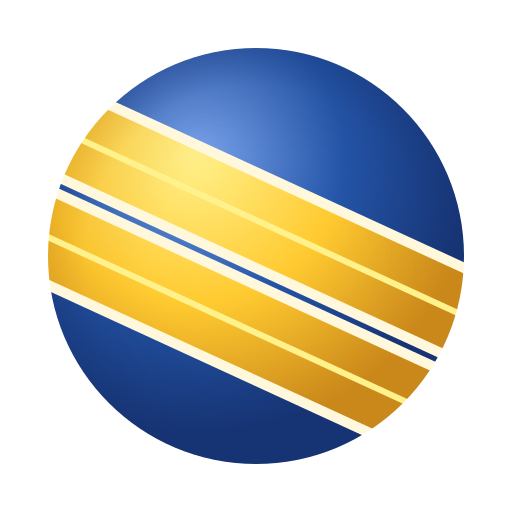
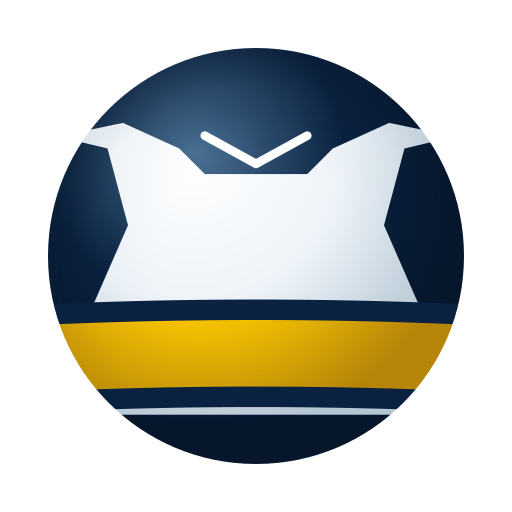
Give HV71 a white navy and yellow hockey kit in both styles

diff --git a/snake-style-config.js b/snake-style-config.js
@@ -1,2 +1,2 @@
 // Generated from the approved template specs. Run tools/export-snake-styles.cjs.
-(function(root){const config={"skins":["klassisk","jordgubbe","basketboll","isbla","rosa","lila","smaragd","regnbage","guld","polkagris","galax","vattenmelon","fotboll","miamisunset","inferno","aurora","hav","lava","obsidian","blackpink","skog","radioaktiv","plasma","clockwork","runorm","prismagodis","skuggmysterium","tidvatten","museumvaktaren","stjarnarkiv","solregent","stjarnhimmel","ghost","kunglig","hv71"],"rendering":{"minimumOpacity":0.75,"fadePerSegment":0.0125,"toyOutlineWidth":0.025,"toyOutlineOpacity":0.62,"toyShadowBlur":0.16,"toyShadowOffset":0.14,"shadowOpacity":0.48,"pixelShadowBlur":0.7,"pixelShadowOffset":1,"pixelFinalSmoothing":true},"headAttachment":{"center":[0.5,0.5],"radiusX":0.4671875,"radiusY":0.43,"eyes":[[0.3,0.29],[0.7,0.29]],"pixelEyes":[[0.3,0.34],[0.7,0.34]],"rearDecorationAnchors":[[0.17,0.68],[0.83,0.68]],"decorationMinimumY":0.6},"headAccessories":{"kunglig":"crown"},"materialOpacities":{"ghost":0.68},"assetRevisions":{"inferno":2,"radioaktiv":2,"plasma":2},"colorCycles":{"regnbage":{"hues":[0,30,55,115,175,220,275],"intervalMs":1400}},"outlineColors":{"klassisk":"#10361d","jordgubbe":"#390d15","basketboll":"#43240f","isbla":"#103747","rosa":"#47233a","lila":"#302046","smaragd":"#12392e","regnbage":"#431919","guld":"#443214","polkagris":"#672036","galax":"#101828","vattenmelon":"#26352a","fotboll":"#252931","miamisunset":"#26314d","inferno":"#683b12","aurora":"#11192d","hav":"#0d3149","lava":"#17131e","obsidian":"#101020","blackpink":"#190f1c","skog":"#182c24","radioaktiv":"#06190f","plasma":"#080f24","clockwork":"#142022","runorm":"#192624","prismagodis":"#392742","skuggmysterium":"#111622","tidvatten":"#102c37","museumvaktaren":"#111c30","stjarnarkiv":"#101d34","solregent":"#552518","stjarnhimmel":"#11152b","ghost":"#1a526f","kunglig":"#261735","hv71":"#0e1d3b"},"styles":{"toy":{"frame":512,"headScale":1.12,"bodyScale":1.3608,"pivot":[256,64],"chord":188.76501370751944},"pixel":{"frame":32,"headScale":1.03,"bodyScale":1.3608,"pivot":[16,4],"chord":11}}};if(typeof module!=="undefined"&&module.exports)module.exports=config;else root.SnakeStyleConfig=config;})(typeof globalThis!=="undefined"?globalThis:this);
+(function(root){const config={"skins":["klassisk","jordgubbe","basketboll","isbla","rosa","lila","smaragd","regnbage","guld","polkagris","galax","vattenmelon","fotboll","miamisunset","inferno","aurora","hav","lava","obsidian","blackpink","skog","radioaktiv","plasma","clockwork","runorm","prismagodis","skuggmysterium","tidvatten","museumvaktaren","stjarnarkiv","solregent","stjarnhimmel","ghost","kunglig","hv71"],"rendering":{"minimumOpacity":0.75,"fadePerSegment":0.0125,"toyOutlineWidth":0.025,"toyOutlineOpacity":0.62,"toyShadowBlur":0.16,"toyShadowOffset":0.14,"shadowOpacity":0.48,"pixelShadowBlur":0.7,"pixelShadowOffset":1,"pixelFinalSmoothing":true},"headAttachment":{"center":[0.5,0.5],"radiusX":0.4671875,"radiusY":0.43,"eyes":[[0.3,0.29],[0.7,0.29]],"pixelEyes":[[0.3,0.34],[0.7,0.34]],"rearDecorationAnchors":[[0.17,0.68],[0.83,0.68]],"decorationMinimumY":0.6},"headAccessories":{"kunglig":"crown"},"materialOpacities":{"ghost":0.68},"assetRevisions":{"inferno":2,"radioaktiv":2,"plasma":2,"hv71":2},"colorCycles":{"regnbage":{"hues":[0,30,55,115,175,220,275],"intervalMs":1400}},"outlineColors":{"klassisk":"#10361d","jordgubbe":"#390d15","basketboll":"#43240f","isbla":"#103747","rosa":"#47233a","lila":"#302046","smaragd":"#12392e","regnbage":"#431919","guld":"#443214","polkagris":"#672036","galax":"#101828","vattenmelon":"#26352a","fotboll":"#252931","miamisunset":"#26314d","inferno":"#683b12","aurora":"#11192d","hav":"#0d3149","lava":"#17131e","obsidian":"#101020","blackpink":"#190f1c","skog":"#182c24","radioaktiv":"#06190f","plasma":"#080f24","clockwork":"#142022","runorm":"#192624","prismagodis":"#392742","skuggmysterium":"#111622","tidvatten":"#102c37","museumvaktaren":"#111c30","stjarnarkiv":"#101d34","solregent":"#552518","stjarnhimmel":"#11152b","ghost":"#1a526f","kunglig":"#261735","hv71":"#0a2240"},"styles":{"toy":{"frame":512,"headScale":1.12,"bodyScale":1.3608,"pivot":[256,64],"chord":188.76501370751944},"pixel":{"frame":32,"headScale":1.03,"bodyScale":1.3608,"pivot":[16,4],"chord":11}}};if(typeof module!=="undefined"&&module.exports)module.exports=config;else root.SnakeStyleConfig=config;})(typeof globalThis!=="undefined"?globalThis:this);

diff --git a/skin-templates/runtime-preview.html b/skin-templates/runtime-preview.html
@@ -7,7 +7,7 @@
 *{box-sizing:border-box}body{margin:0;padding:24px;background:#f5f0e4;color:#183b35;font:16px system-ui,sans-serif}main{max-width:1160px;margin:auto}h1{margin:0 0 8px;font-size:26px}p{line-height:1.5}button{font:inherit;padding:8px 14px;border:1px solid #789184;border-radius:10px;background:#fffaf0;color:inherit;cursor:pointer}article{margin:22px 0;padding:20px;border:1px solid #cdd6c9;border-radius:18px;background:#fffaf0}h2{margin:0 0 12px;font-size:23px}.styles{display:grid;grid-template-columns:1fr 1fr;gap:22px}h3{margin:0 0 8px;font-size:16px}canvas{display:block;width:100%;height:auto;background:#e4edde;border-radius:12px;image-rendering:auto}.note{margin:12px 0 0;font-size:13px;color:#456057}@media(max-width:650px){body{padding:12px}.styles{grid-template-columns:1fr}article{padding:14px}}
 </style>
 <main><h1>SifferSnoken · riktiga skinpreviews</h1><p>Samma WebP-filer, former, ögon och svansfästen som i spelet. Utan längdnedtoning; Ghost behåller sin genomskinlighet.</p><button id="pause">Pausa färgerna</button><div id="previews"></div><p id="status" role="status">Laddar tillgångar…</p></main>
-<script src="../snake-style-config.js?v=snake-styles-19"></script>
+<script src="../snake-style-config.js?v=snake-styles-20"></script>
 <script src="../snake-colors.js?v=snake-styles-4"></script>
 <script src="../snake-headwear-designs.js?v=headwear-3"></script>
 <script src="../snake-headwear.js?v=headwear-3"></script>

diff --git a/skin-templates/headwear-preview.html b/skin-templates/headwear-preview.html
@@ -6,7 +6,7 @@
 *{box-sizing:border-box}body{margin:0;padding:24px;background:#f5f0e4;color:#183b35;font:16px system-ui,sans-serif}main{max-width:1080px;margin:auto}h1{font-size:26px;margin:0 0 10px}p{line-height:1.5}article{background:#fffaf0;border:1px solid #cdd6c9;border-radius:18px;padding:20px;margin:22px 0}h2{margin:0 0 14px}h3{font-size:16px;margin:0 0 8px}.styles{display:grid;grid-template-columns:1fr 1fr;gap:20px}canvas{display:block;width:100%;height:auto;border-radius:12px}label{display:inline-flex;gap:6px;margin-right:14px}@media(max-width:650px){body{padding:12px}.styles{grid-template-columns:1fr}article{padding:14px}}
 </style>
 <main><h1>Alla 30 huvudbonader · passformsprov</h1><p>Klassisk, Jordgubbe och Ghost, i alla fyra riktningar. Samma renderer och fästpunkter som i spelet. Ögon och huvudstorlekar är oförändrade.</p><label><input type="checkbox" id="blink">Visa blinkning</label><label><input type="checkbox" id="off">Utan bonad</label><div id="previews"></div><p id="status">Laddar…</p></main>
-<script src="../snake-style-config.js?v=snake-styles-19"></script>
+<script src="../snake-style-config.js?v=snake-styles-20"></script>
 <script src="../snake-colors.js?v=snake-styles-4"></script>
 <script src="../snake-headwear-designs.js?v=headwear-3"></script>
 <script src="../snake-headwear.js?v=headwear-3"></script>

diff --git a/skin-templates/headwear-gallery.html b/skin-templates/headwear-gallery.html
@@ -4,7 +4,7 @@
 <main><h1>SifferSnoken · alla 30 huvudbonader</h1><p>Modern och Pixelretro · samma huvud och renderer som i spelet.</p>
 <label>Skin <select id="skin"><option value="klassisk">Klassisk</option><option value="jordgubbe">Jordgubbe</option><option value="ghost">Ghost</option></select></label><label>Riktning <select id="direction"><option value="right">Höger</option><option value="up">Upp</option><option value="down">Ned</option><option value="left">Vänster</option></select></label><label><input type="checkbox" id="blink">Blinkning</label>
 <h2>Modern · mjuka leksaksformer</h2><canvas id="toy" width="1120" height="760"></canvas><h2>Pixelretro</h2><canvas id="pixel" width="1120" height="760"></canvas><p id="status">Laddar…</p></main>
-<script src="../snake-style-config.js?v=snake-styles-19"></script><script src="../snake-colors.js?v=snake-styles-4"></script>
+<script src="../snake-style-config.js?v=snake-styles-20"></script><script src="../snake-colors.js?v=snake-styles-4"></script>
 <script src="../snake-headwear-designs.js?v=headwear-3"></script><script src="../snake-headwear.js?v=headwear-3"></script><script src="../snake-styles.js?v=snake-styles-9"></script>
 <script>
 const renderer=SnakeStyles.createRenderer({assetPrefix:'../'});

diff --git a/index.html b/index.html
@@ -1093,7 +1093,7 @@ body[data-graphics="pixel"] #c,body[data-graphics="pixel"] .skin-canvas-wrap can
 <div id="medalToast"></div>
 
 <script src="translations.js?v=3.12"></script>
-<script src="snake-style-config.js?v=snake-styles-19"></script>
+<script src="snake-style-config.js?v=snake-styles-20"></script>
 <script src="snake-colors.js?v=snake-styles-4"></script>
 <script src="snake-headwear-designs.js?v=headwear-3"></script>
 <script src="snake-headwear.js?v=headwear-3"></script>

diff --git a/skin-templates/README.md b/skin-templates/README.md
@@ -168,4 +168,4 @@ Stjärnhimmel och Ghost är kontrollerade i båda stilarna på desktop och vid 3
 - Förhandsvisningen använder spelets nuvarande standardvärden 1,26 i kroppsskala och 1,08 i överlappning. Denna geometrikontroll ersätter inte ett speltest.
 - Bevara ursprungliga modernassets under hela migreringen. Inga upplåsningskrav ska ändras när grafiklägena kopplas in.
 
-Kunglig har lila skulpterad volym med två öppna gyllene brokadslingor och små diamantstygn, utan stora kroppsemblem. Auto visar den nya kronan; huvudets låsta storlek ändras inte. HV71 har blå volym med breda gula sportband och ljusa kanter. Samma ytor följer huvud och kort smal svans. Kroppsmönstren är fasta, Pixelretro använder sex färger, Modern bakar ljuset i förlustfri WebP. Båda är jämförda med konceptmålen och testade i spel på desktop/390 px mobil med 33 segment, svansnedtoning och separat vanlig rörelse/svängar. Upplåsningar är oförändrade. Runtime-previews: `runtime-preview.html?skins=kunglig` och `?skins=hv71`.
+Kunglig har lila skulpterad volym med två öppna gyllene brokadslingor och små diamantstygn, utan stora kroppsemblem. Auto visar den nya kronan; huvudets låsta storlek ändras inte. HV71 (revision 2) har vita matchtröjeinspirerade ytor med mörkblå axel-/sidopaneler och breda gula muddar. Huvudets blå hjälminspirerade bakdel har korsade klubbor och små ventilationsspår bakom ögonen. Referensfärgerna är blå `#0a2240` och gul `#ffcb01` enligt [HV71:s grafiska riktlinjer](https://www.hv71.se/grafiska-riktlinjer), tillsammans med vitt; klubbens logotyp är inte reproducerad. Alla motiv är bakade i WebP och `assetRevision: 2` versionshämtar endast HV71:s tolv ändrade runtimebilder. Samma ytor följer huvud och kort smal svans. Kroppsmönstren är fasta, Pixelretro använder sex färger, Modern bakar ljuset i förlustfri WebP. Båda är jämförda med konceptmålen och testade i spel på desktop/390 px mobil med 33 segment, svansnedtoning och separat vanlig rörelse/svängar. Upplåsningar är oförändrade. Runtime-previews: `runtime-preview.html?skins=kunglig` och `?skins=hv71`.

diff --git a/CHANGELOG.md b/CHANGELOG.md
@@ -2,6 +2,13 @@
 
 ## 2026-10-05
 
+### HV71: tydligare hockeykänsla
+
+- Matchtröjeinspirerade vita kroppar med mörkblå axelpartier, sidopaneler och breda gula muddar, i både Modern och Pixelretro.
+- Officiella referensfärger: blå `#0a2240` och gul `#ffcb01` enligt HV71:s grafiska riktlinjer, tillsammans med vitt. Ingen klubb-logotyp kopieras eller ändras.
+- Hjälminspirerad blå bakdel på huvudet med två korsade hockeyklubbor och små ventilationsspår bakom ögonen. Låsta former, svansfäste och kroppsmönstrets fasta orientering bevaras.
+- Revision 2 uppdaterar bara HV71:s tolv runtime-WebP-adresser; ögon, huvudbonader, andra skins och Original behåller sina tillgångar.
+
 ### Kunglig, HV71 och alla huvudbonader i båda nya stilarna
 
 - Kunglig: lila skulpterat material med gyllene brokadslingor och korrekt proportionerad krona. HV71: blått material med gula sportband och ljusa kanter.
